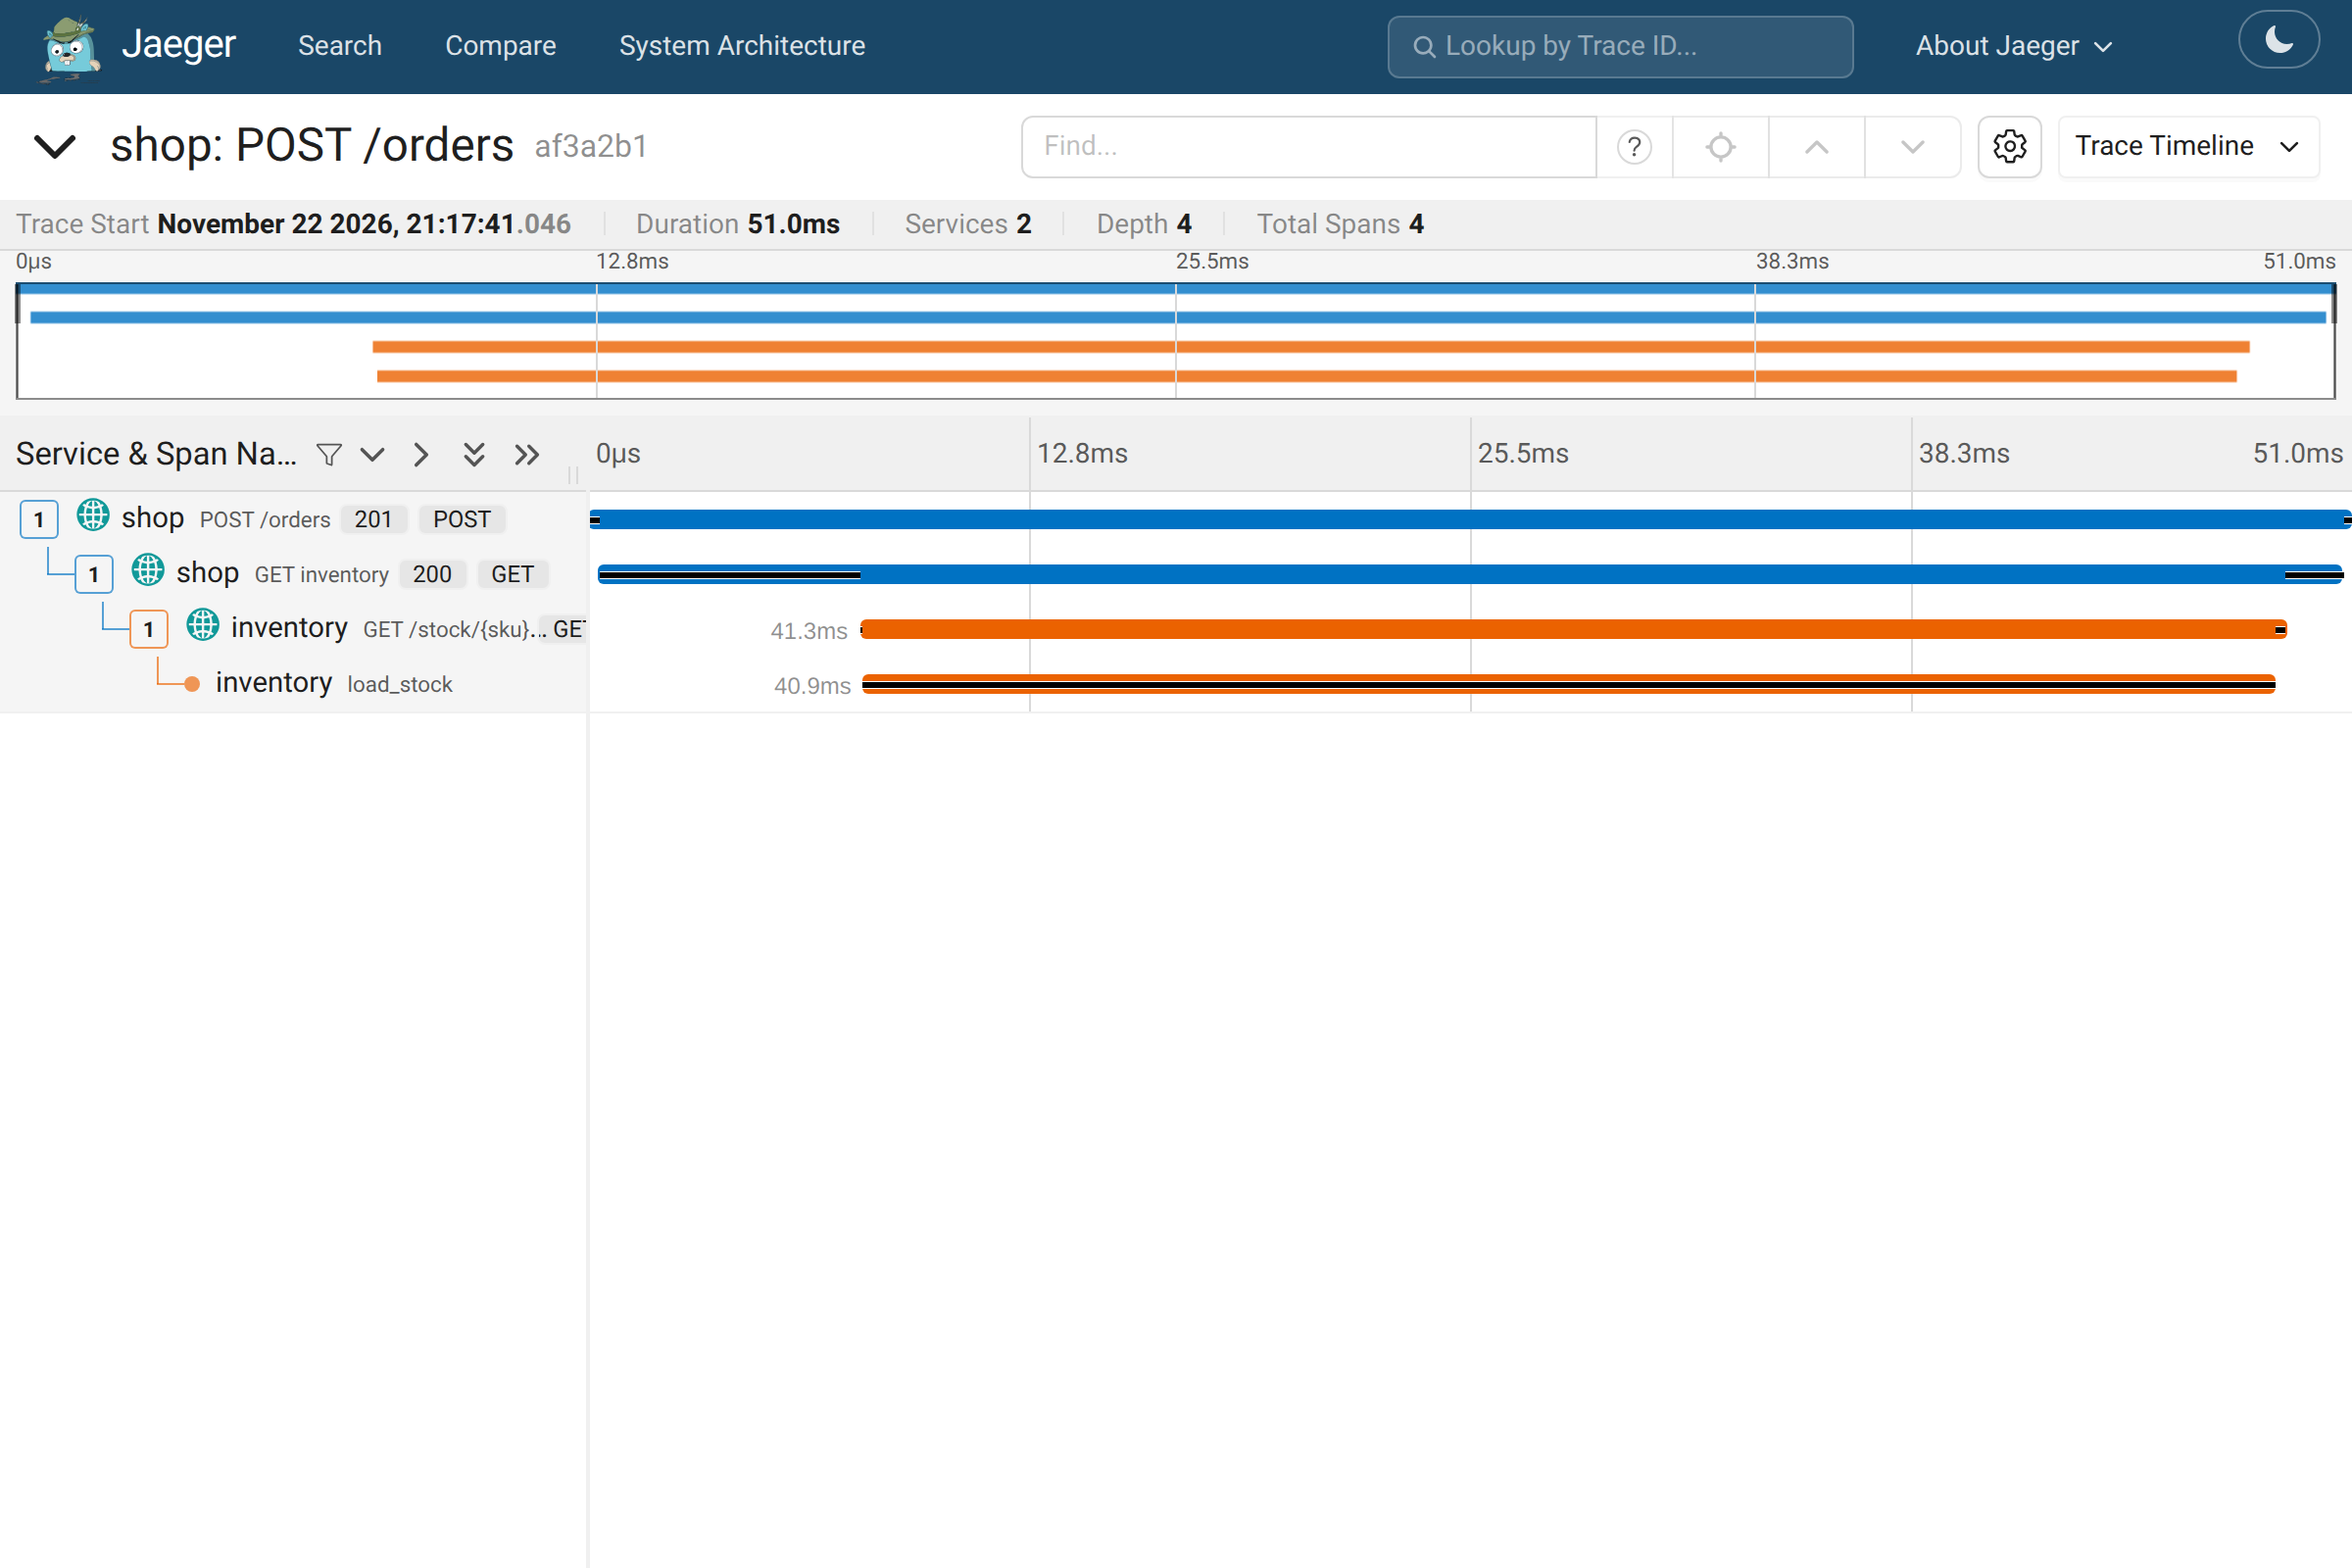
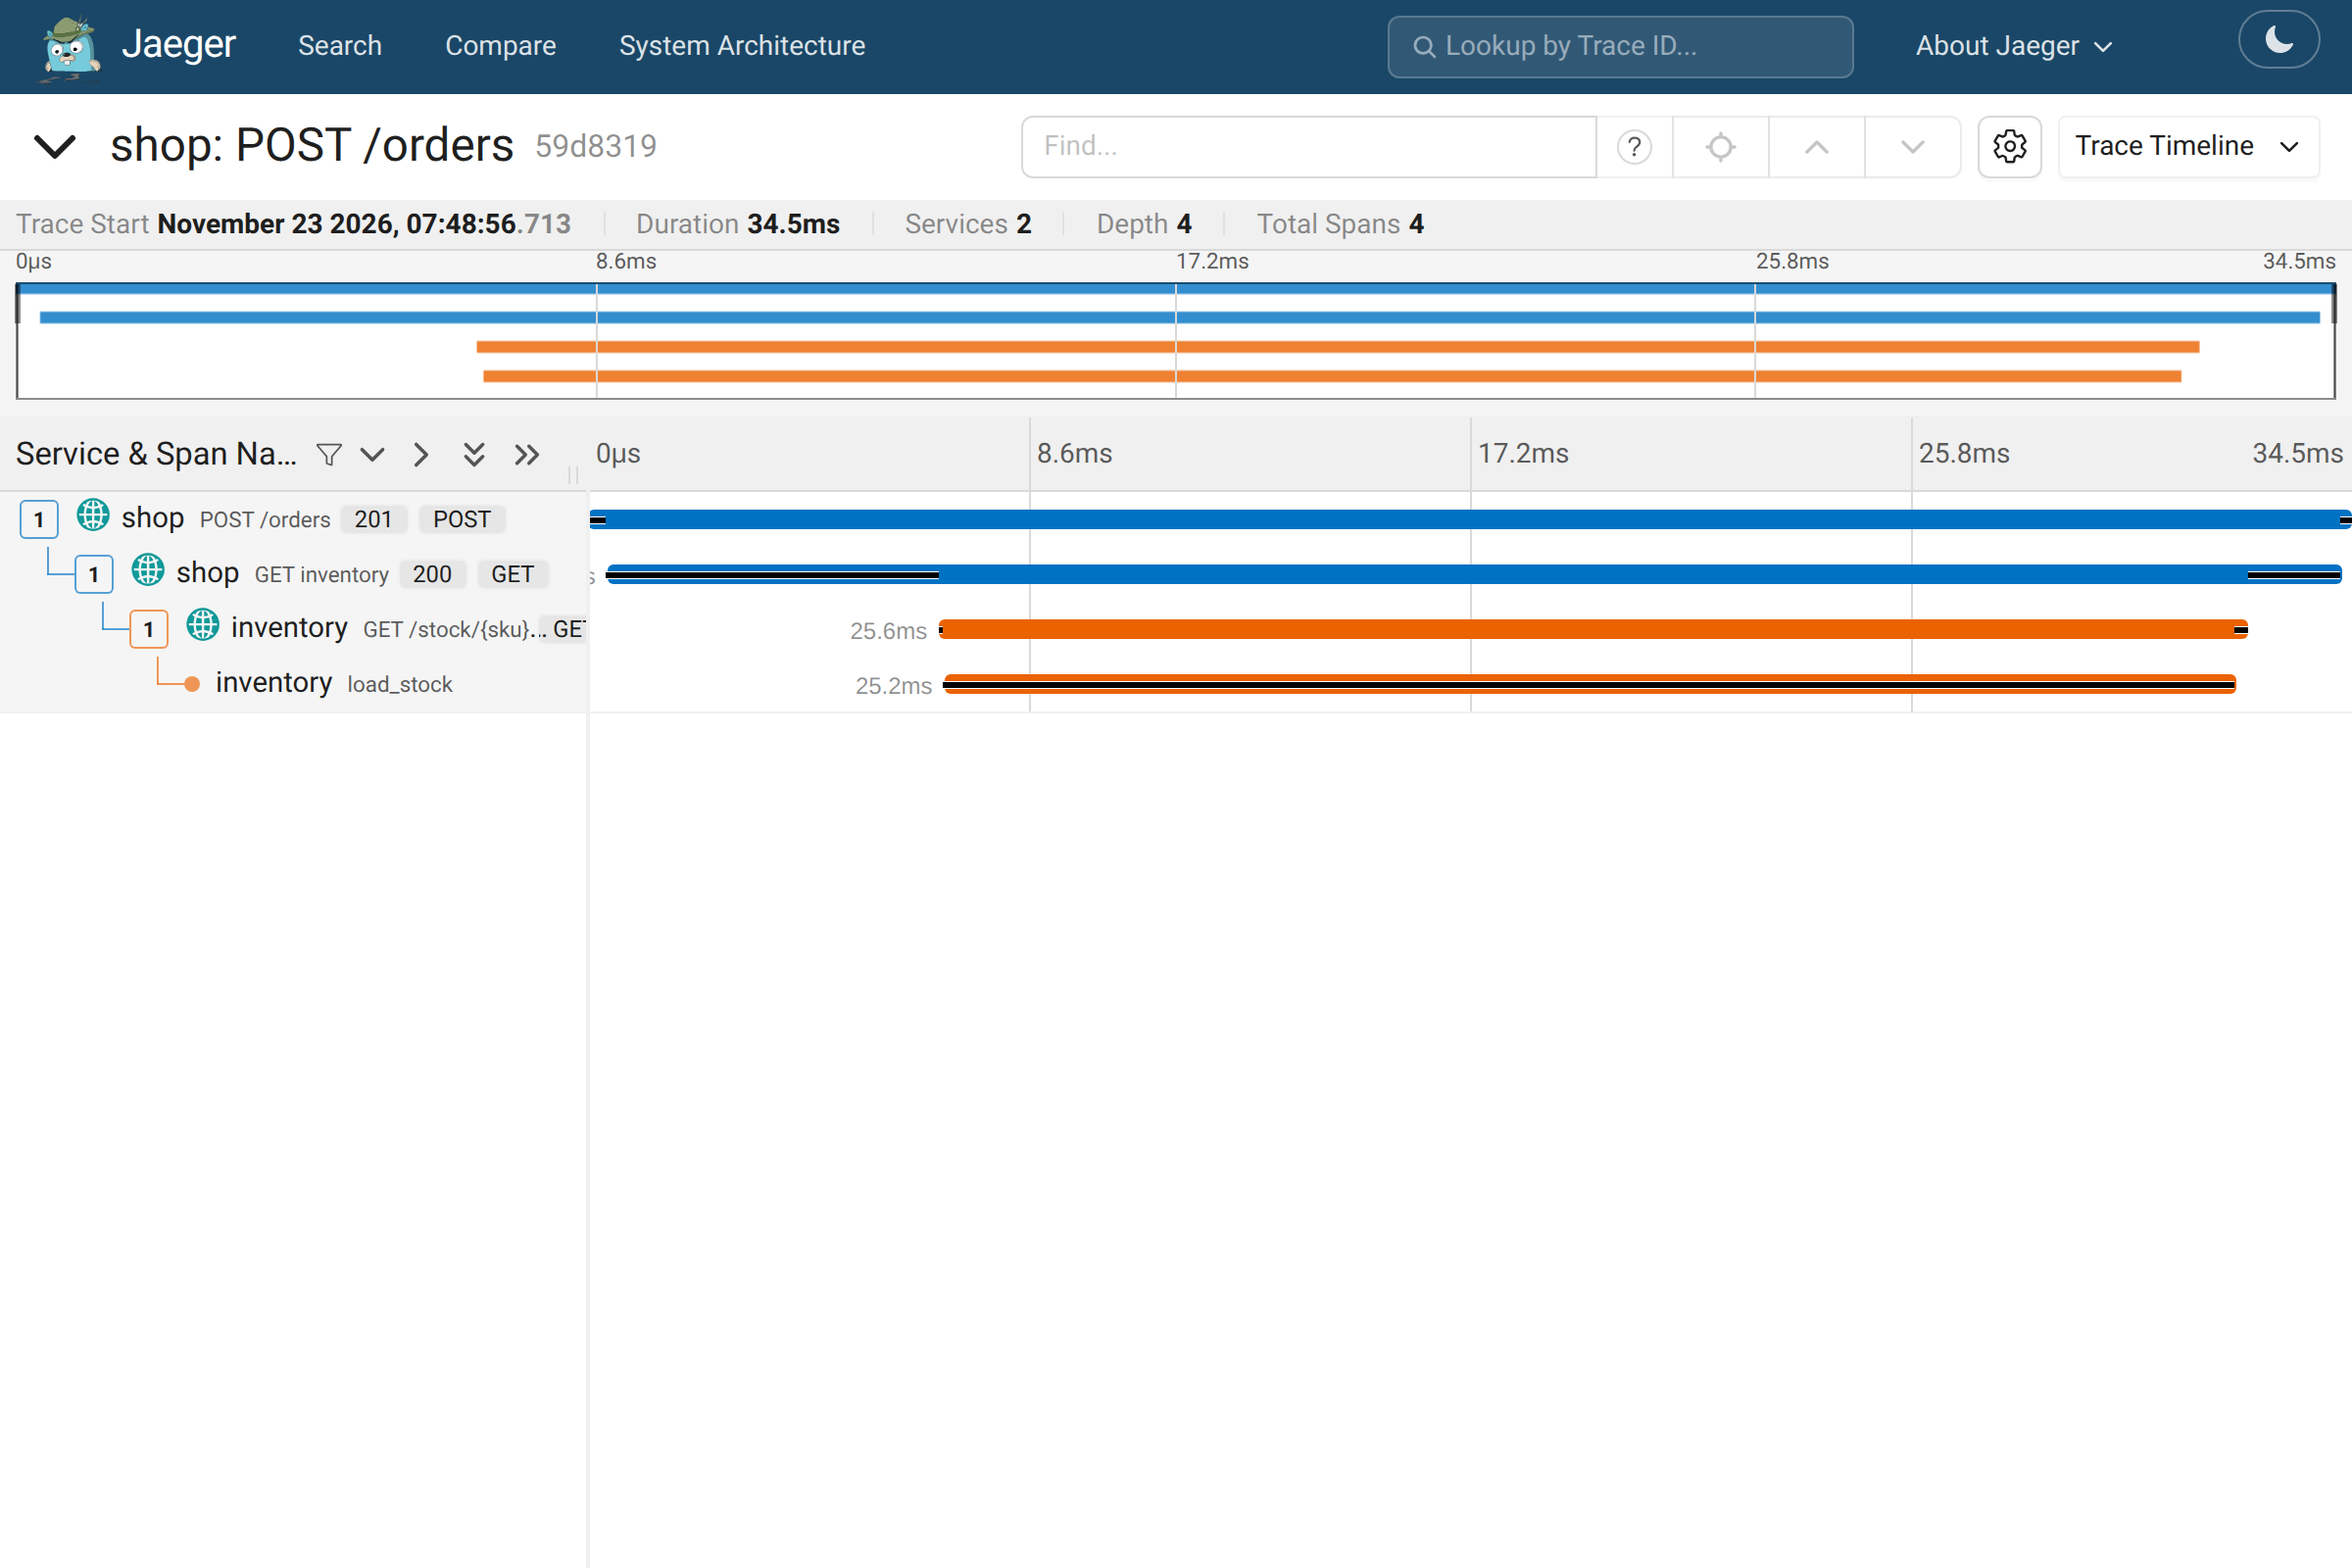
Lab 7 : rejeu sur les chemins renommés et captures refaites
Le lab 7 a été rejoué sur clt-0 après la refonte terminologique :
dossier ~/lab07, dossier fourni config/lab07/, projet Compose lab07,
attribut de ressource deployment.environment.name=lab7.

Les trois captures Jaeger sont refaites lors de ce passage pour refléter
la nouvelle valeur d'environnement (img/lab07-jaeger-shop-attributes.png,
img/lab07-jaeger-trace-complete.png, img/lab07-jaeger-panne-exception.png).

Notes animateur mises à jour (rejeu du 23 novembre).

diff --git a/animateur/lab07.md b/animateur/lab07.md
@@ -21,9 +21,9 @@ Le lab se déroule entièrement sur la machine cliente `clt-N` :
 
 Les composants Loki et Grafana ont été retirés de la stack pour concentrer le lab 7 exclusivement sur le signal traces (spans, attributs, événements, erreurs, propagation de contexte W3C et hachage OTTL), conformément aux objectifs du cours.
 
-## Rejeu du 22 novembre 2026 (clt-0)
+## Rejeus du 22 et du 23 novembre 2026 (clt-0)
 
-Le rejeu complet a été validé sur `clt-0` :
+Le rejeu complet a été validé deux fois sur `clt-0` : le 22 novembre avec les chemins d'origine, puis le 23 novembre après la refonte terminologique (dossier `~/lab07`, dossier fourni `config/lab07/`, projet Compose `lab07`, attribut de ressource `deployment.environment.name=lab7`). Les captures d'écran ont été refaites lors du second passage pour refléter la nouvelle valeur.
 
 - **Partie 1 (Démarrage)** : build de l'image Python et démarrage des conteneurs. Les commandes `./order.sh` retournent 201 (coffee), 409 (mug, stock insuffisant) et 404 (pizza, inconnu). Seul le service `jaeger` est enregistré dans Jaeger.
 - **Partie 2 (SDK)** : écriture de `app/telemetry.py`. Le smoke test exécuté via `docker compose exec -T shop python -` produit un span dans Jaeger sous le service `smoke-test`. Les commandes applicatives fonctionnent sans émettre de traces.
